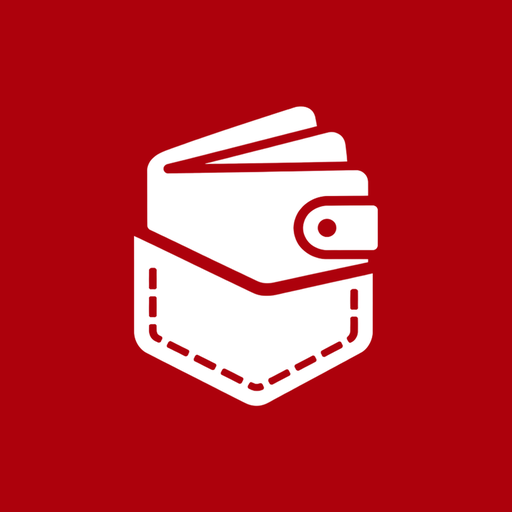
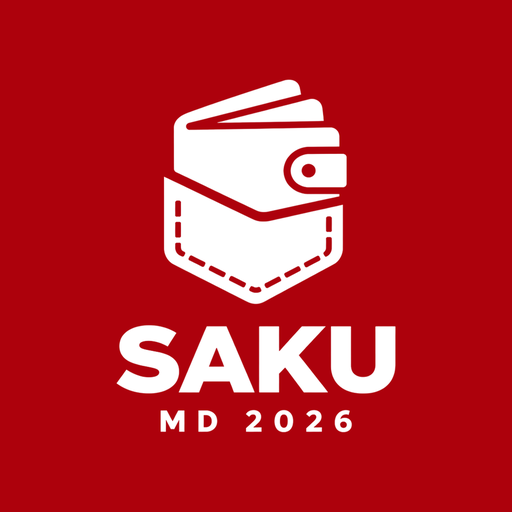
Add files via upload

Changed region(s): [[0.2188, 0.1562, 0.7812, 0.8438]]

diff --git a/public/index.html b/public/index.html
@@ -878,7 +878,7 @@ html.theme-anim *,html.theme-anim *::before,html.theme-anim *::after{transition:
 .keb-card .pill.bad{box-shadow:inset 0 0 0 1px rgba(200,16,46,.22)}
 @media(prefers-reduced-motion:reduce){.keb-card .bar>span::after,.greet-ico,.dashboard-hero::before,.login-wrap::before,.login-wrap::after{animation:none!important}}
 .page.in-push,.sub.in-push{position:relative}
-.login-logo{width:84px;height:84px;padding:0;overflow:hidden;border-radius:24px;background:none;box-shadow:0 12px 28px rgba(120,0,10,.40)}
+.login-logo{width:148px;height:148px;margin-bottom:18px;padding:0;overflow:hidden;border-radius:34px;background:none;box-shadow:0 12px 28px rgba(120,0,10,.40)}
 .login-logo img{display:block;width:100%;height:100%}
 .login-wrap{background-image:url(/logo-ghost.png),var(--hero);background-repeat:no-repeat;background-position:calc(100% + 110px) calc(100% + 70px),0 0;background-size:440px auto,auto}
 
@@ -896,7 +896,7 @@ html.theme-anim *,html.theme-anim *::before,html.theme-anim *::after{transition:
 <!-- LOGIN -->
 <div id="loginPage" class="login-wrap">
   <div class="login-card">
-    <div class="login-logo" aria-hidden="true"><img src="/icon-192.png" alt="" width="84" height="84"></div>
+    <div class="login-logo" aria-hidden="true"><img src="/login-logo.png" alt="SAKU MD 2026" width="148" height="148"></div>
     <div class="login-title">Saku Angkatan MD'26</div>
     <div class="login-sub">Manajemen Dakwah • Kelas A, B &amp; C</div>
     <form id="loginForm" method="post" action="#" autocomplete="on" onsubmit="doLogin(event)">
